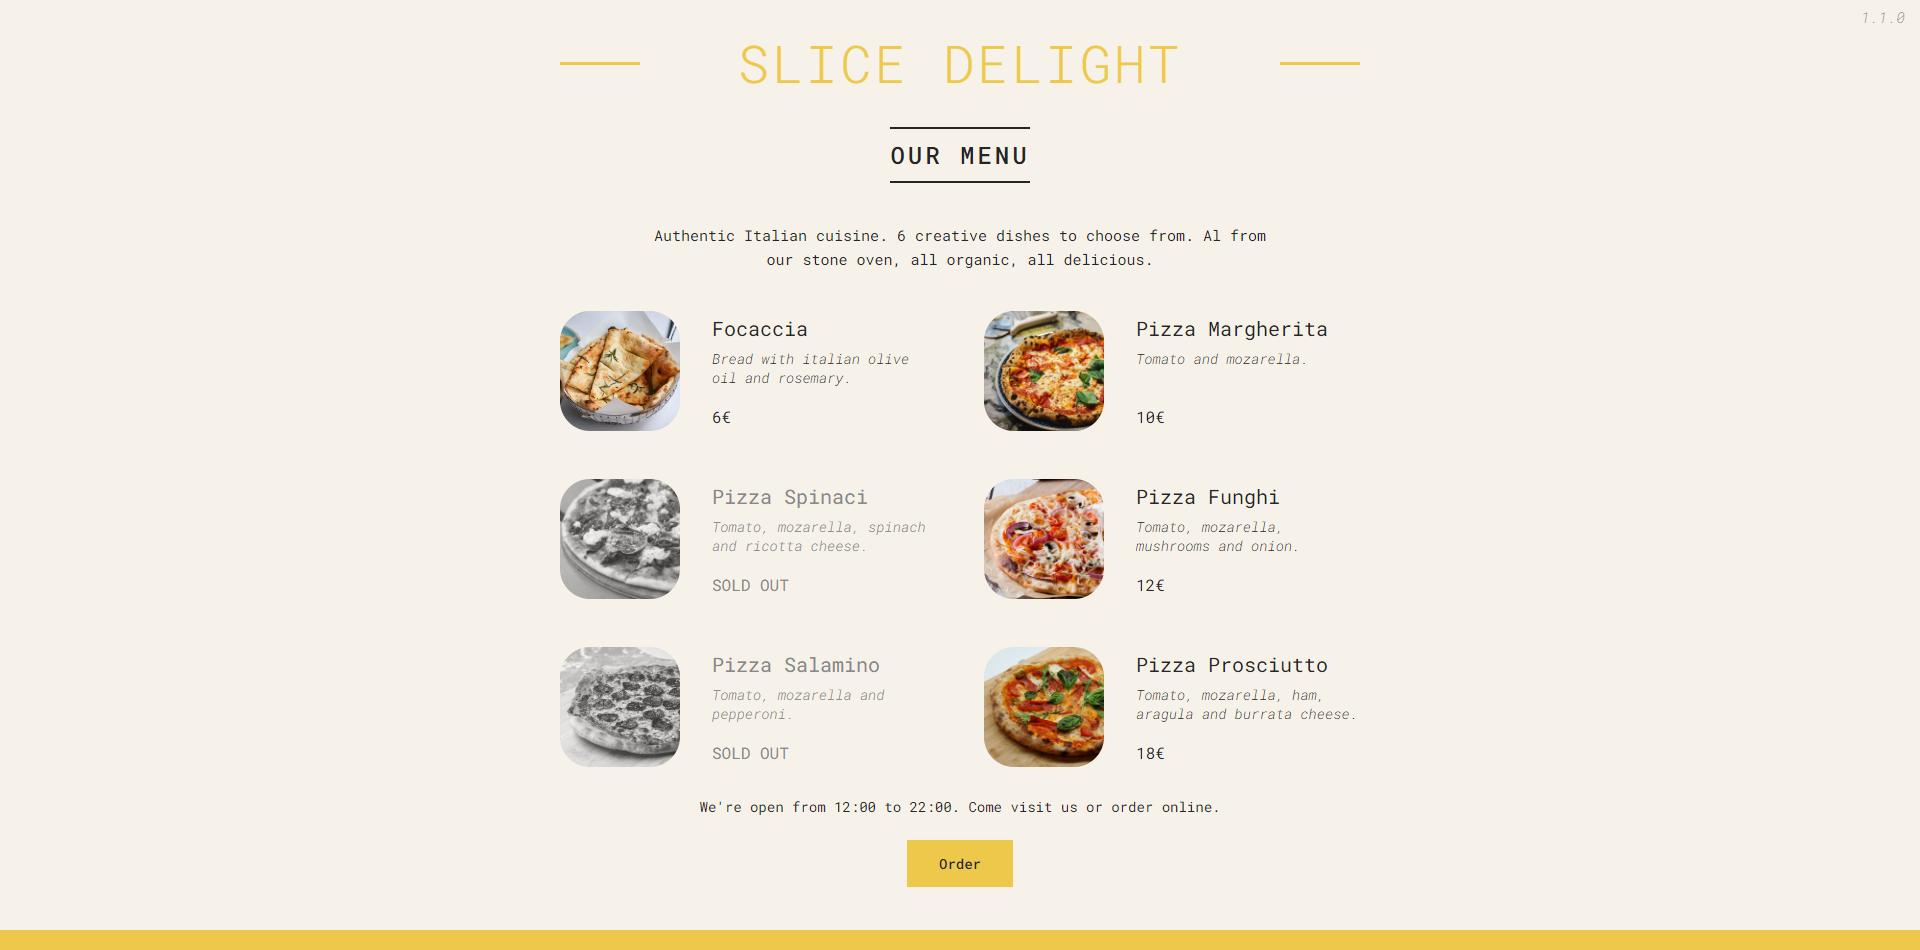
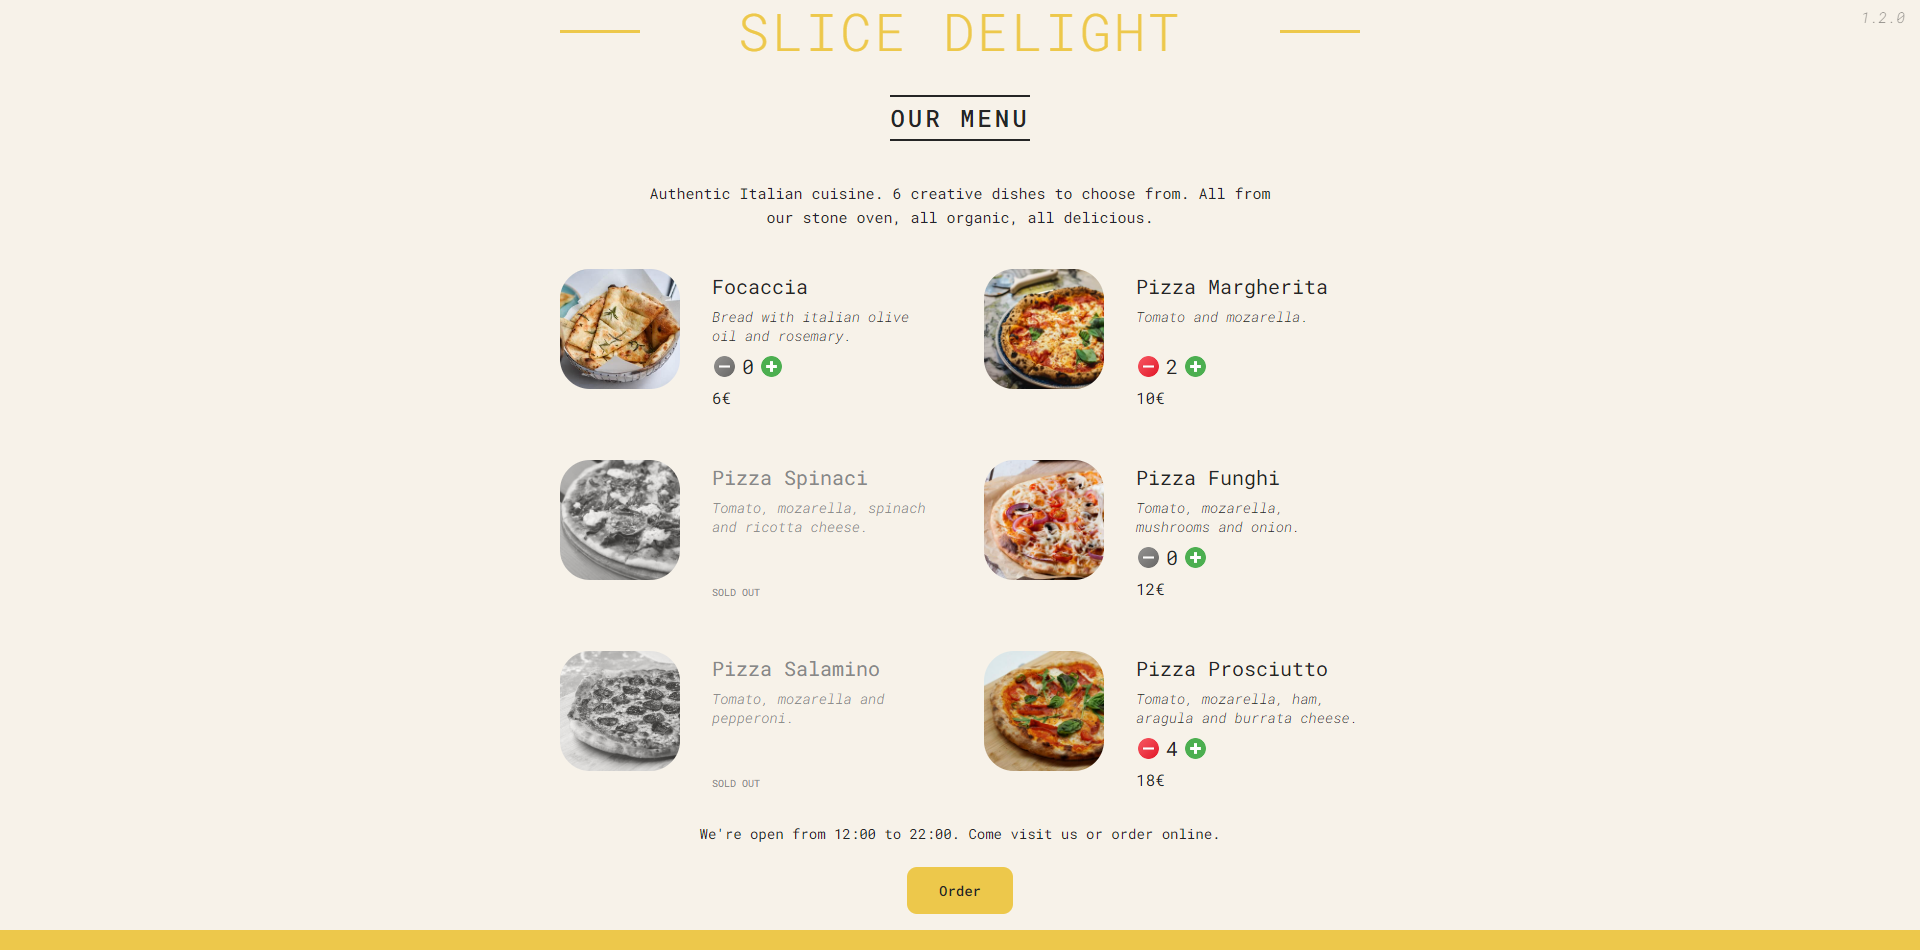
SLICE DELIGHT 1.2.0
Add Order Feature
Add plus_button.png
Add minus_button.png
Update index.js
Update index.css
Update README.md

Changed region(s): [[0.2812, 0.0, 0.6875, 0.6411], [0.2812, 0.6716, 0.7188, 0.9768], [0.375, 0.0, 0.4688, 0.0916]]

diff --git a/src/index.js b/src/index.js
@@ -1,14 +1,22 @@
 import "./index.css";
-import React from "react";
+import React, { useState } from "react";
+import Swal from "sweetalert2";
 import ReactDom from "react-dom/client";
 import PizzaData from "./pizzaData.json";
 
+
 function App() {
+    const initialOrder = new Array(PizzaData.pizzas.length);
+    PizzaData.pizzas.forEach(element => {
+        initialOrder[element.id] = ([element.name, element.price, 0]);
+    });
+    const [order, setOrder] = useState(initialOrder);
+
     return (
         <div className="container">
             <Header />
-            <Menu />
-            <Footer />
+            <Menu order={order} setOrder={setOrder} />
+            <Footer order={order} setOrder={setOrder} />
             <VerisonWatermark />
         </div>
     );
@@ -22,7 +30,7 @@ function Header() {
     );
 }
 
-function Menu() {
+function Menu(order) {
     const pizzas = PizzaData.pizzas;
     const numPizzas = pizzas.length;
 
@@ -31,9 +39,9 @@ function Menu() {
             <h2>Our menu</h2>
             {numPizzas > 0 ? (
                 <>
-                    <p>Authentic Italian cuisine. 6 creative dishes to choose from. Al from our stone oven, all organic, all delicious.</p>
+                    <p>Authentic Italian cuisine. 6 creative dishes to choose from. All from our stone oven, all organic, all delicious.</p>
                     <ul className="pizzas">
-                        {pizzas.map((pizza) => (<Pizza pizza={pizza} key={pizza.name} />))}
+                        {pizzas.map((pizza) => (<Pizza pizza={pizza} key={pizza.name} order={order} />))}
                     </ul>
                 </>
             ) : (
@@ -43,24 +51,42 @@ function Menu() {
     );
 }
 
-function Pizza({ pizza }) {
+function Pizza({ pizza, order }) {
     return (
         <li className={`pizza ${pizza.soldOut ? "sold-out" : ""}`}>
-            <img src={pizza.photoName} alt={pizza.name}></img>
-            <div>
+            <img className="pizzaImg" src={pizza.photoName} alt={pizza.name}></img>
+            <div className="pizzaDiv">
                 <h3>{pizza.name}</h3>
                 <p>{pizza.ingredients}</p>
                 {pizza.soldOut ? (
                     <span>SOLD OUT</span>
                 ) : (
-                    <span>{pizza.price}€</span>
+                    <>
+                        <div className="orderButtons">
+                            <img className={`orderButton ${order.order[pizza.id][2] === 0 ? "orderButtonDisabled" : ""}`} src="ui/minus_button.png" alt="Minus Button" onClick={() => UpdateCantityOrder(pizza.id, -1, order)}></img>
+                            <span className="orderCantity">{order.order[pizza.id][2]}</span>
+                            <img className="orderButton" src="ui/plus_button.png" alt="Plus Button" onClick={() => UpdateCantityOrder(pizza.id, 1, order)}></img>
+                        </div>
+                        <span className="pizzaSpan">{pizza.price}€</span>
+                    </>
                 )}
             </div>
-        </li>
+        </li >
     );
 }
 
-function Footer() {
+function UpdateCantityOrder(id, value, order) {
+    if (0 <= order.order[id][2] + value) {
+        const newOrder = order.order.map((item, index) => {
+            if (index === id)
+                return [...item.slice(0, 2), item[2] + value, ...item.slice(3)];
+            return [...item];
+        });
+        order.setOrder(newOrder);
+    }
+}
+
+function Footer(order) {
     const hour = new Date().getHours();
     const openHour = 12;
     const closeHour = 22;
@@ -69,7 +95,7 @@ function Footer() {
     return (
         <footer className="footer">
             {isOpen ? (
-                <Order closeHour={closeHour} openHour={openHour} />
+                <Order closeHour={closeHour} openHour={openHour} order={order} />
             ) : (
                 <p>We're happy to welcome you between {openHour}:00 and {closeHour}:00.</p>
             )}
@@ -77,12 +103,61 @@ function Footer() {
     );
 }
 
-function Order({ openHour, closeHour }) {
+function Order({ openHour, closeHour, order }) {
+
     return (
         <div className="order">
             <p>We're open from {openHour}:00 to {closeHour}:00. Come visit us or order online.</p>
-            <button className="btn" onClick={() => alert("We're still working on this feature. Please come back later :)")}>Order</button>
-        </div>
+            <button className="btn" onClick={() => {
+                let htmlOrder = "";
+                let totalPriceInt = 0;
+                order.order.forEach(element => {
+                    if (element[2] > 0) {
+                        htmlOrder = htmlOrder + "<p>" + element[0] + ": " + element[2] + "</p>"
+                        totalPriceInt += (element[1] * element[2]);
+                    }
+                });
+                if (totalPriceInt > 0) {
+                    const htmlTotalPrice = "Total price: " + totalPriceInt + "€";
+                    Swal.fire({
+                        title: htmlTotalPrice,
+                        html: htmlOrder,
+                        icon: "question",
+                        showCancelButton: true,
+                        confirmButtonColor: "#3085d6",
+                        cancelButtonColor: "#d33",
+                        confirmButtonText: "Confirm order",
+                        customClass: {
+                            htmlContainer: "swal-text",
+                            confirmButton: "swal-text",
+                            cancelButton: "swal-text",
+                            popup: "swal-popup"
+                        }
+                    }).then((result) => {
+                        if (result.isConfirmed) {
+                            Swal.fire({
+                                title: "Order confirmed",
+                                text: "Your order will soon be ready.",
+                                icon: "success",
+                                customClass: {
+                                    htmlContainer: "swal-text",
+                                    popup: "swal-popup"
+                                }
+                            });
+                        }
+                    })
+                } else {
+                    Swal.fire({
+                        title: "Your order is empty.", html: "", icon: "info",
+                        customClass: {
+                            htmlContainer: "swal-text",
+                            confirmButton: "swal-text",
+                            popup: "swal-popup"
+                        }
+                    });
+                }
+            }}>Order</button>
+        </div >
     );
 }
 

diff --git a/src/index.css b/src/index.css
@@ -23,7 +23,7 @@ body {
   background-color: #f7f2e9;
   border-bottom: 2rem solid #edc84b;
   min-height: 100vh;
-  padding: 3.2rem;
+  padding: 0 3.2rem 1rem;
 }
 
 .container {
@@ -36,17 +36,12 @@ body {
   gap: 3rem;
 }
 
-/* *************** */
-
 .header {
   align-self: stretch;
 }
 
 .header h1 {
-  /* Non-accessible color */
   color: #edc84b;
-  /* color: #af8602; */
-
   text-transform: uppercase;
   text-align: center;
   font-size: 5.2rem;
@@ -76,8 +71,6 @@ body {
   right: 0;
 }
 
-/* *************** */
-
 .menu {
   display: flex;
   flex-direction: column;
@@ -87,7 +80,7 @@ body {
 
 .menu h2 {
   display: inline-block;
-  padding: 1rem 0;
+  padding: 0.5rem 0;
   border-top: 2px solid currentColor;
   border-bottom: 2px solid currentColor;
   font-size: 2.4rem;
@@ -115,14 +108,14 @@ body {
   gap: 3.2rem;
 }
 
-.pizza img {
+.pizzaImg {
   width: 12rem;
   aspect-ratio: 1;
   align-self: start;
   border-radius: 30px;
 }
 
-.pizza div {
+.pizzaDiv {
   display: flex;
   flex-direction: column;
   gap: 0.8rem;
@@ -141,7 +134,7 @@ body {
   margin-bottom: auto;
 }
 
-.pizza span {
+.pizzaSpan {
   display: block;
   font-size: 1.6rem;
 }
@@ -155,7 +148,25 @@ body {
   opacity: 0.8;
 }
 
-/* *************** */
+.orderButtons {
+  display: flex;
+  justify-content: left;
+  align-items: center;
+}
+
+.orderButton {
+  width: 25px;
+}
+
+.orderButtonDisabled {
+  filter: grayscale();
+  opacity: 0.8;
+}
+
+.orderCantity {
+  font-size: 20px;
+  margin: 0 5px;
+}
 
 .footer {
   font-size: 1.4rem;
@@ -178,10 +189,24 @@ body {
   padding: 1.4rem 3.2rem;
   cursor: pointer;
   transition: all 0.2s;
+  border-radius: 10px;
 }
 
 .btn:hover {
   background-color: #e9bb24;
+}
+
+.swal-text {
+  font-size: 18px !important;
+}
+
+.swal-icon {
+  width: 70px;
+  height: 70px;
+}
+
+.swal-popup {
+  font-size: 12px !important;
 }
 
 .versionWatermark {
@@ -192,11 +217,3 @@ body {
   font-size: 15px;
   color: rgba(0, 0, 0, 0.5);
 }
-
-/*
-SPACING SYSTEM (px)
-2 / 4 / 8 / 12 / 16 / 24 / 32 / 40 / 48 / 64 / 80 / 96 / 128
-
-FONT SIZE SYSTEM (px)
-10 / 12 / 14 / 16 / 18 / 20 / 24 / 30 / 36 / 44 /52 / 62 / 74 / 86 / 98
-*/

diff --git a/README.md b/README.md
@@ -16,12 +16,14 @@
 
 - **STACK :**
 
-  - **Slice Delight** : `1.1.0`
+  - **Slice Delight** : `1.2.0`
   - **React** : `18.3.1`
   - **React Dom** : `18.3.1`
+  - **SweetAlert2** : `11.11.0`
 
 ---
 
 - **CREDITS :**
 
   - **Author : [David Gómez](https://github.com/DavidGomezToca)**
+  - **UI : [Icons8](https://iconos8.es/)**
